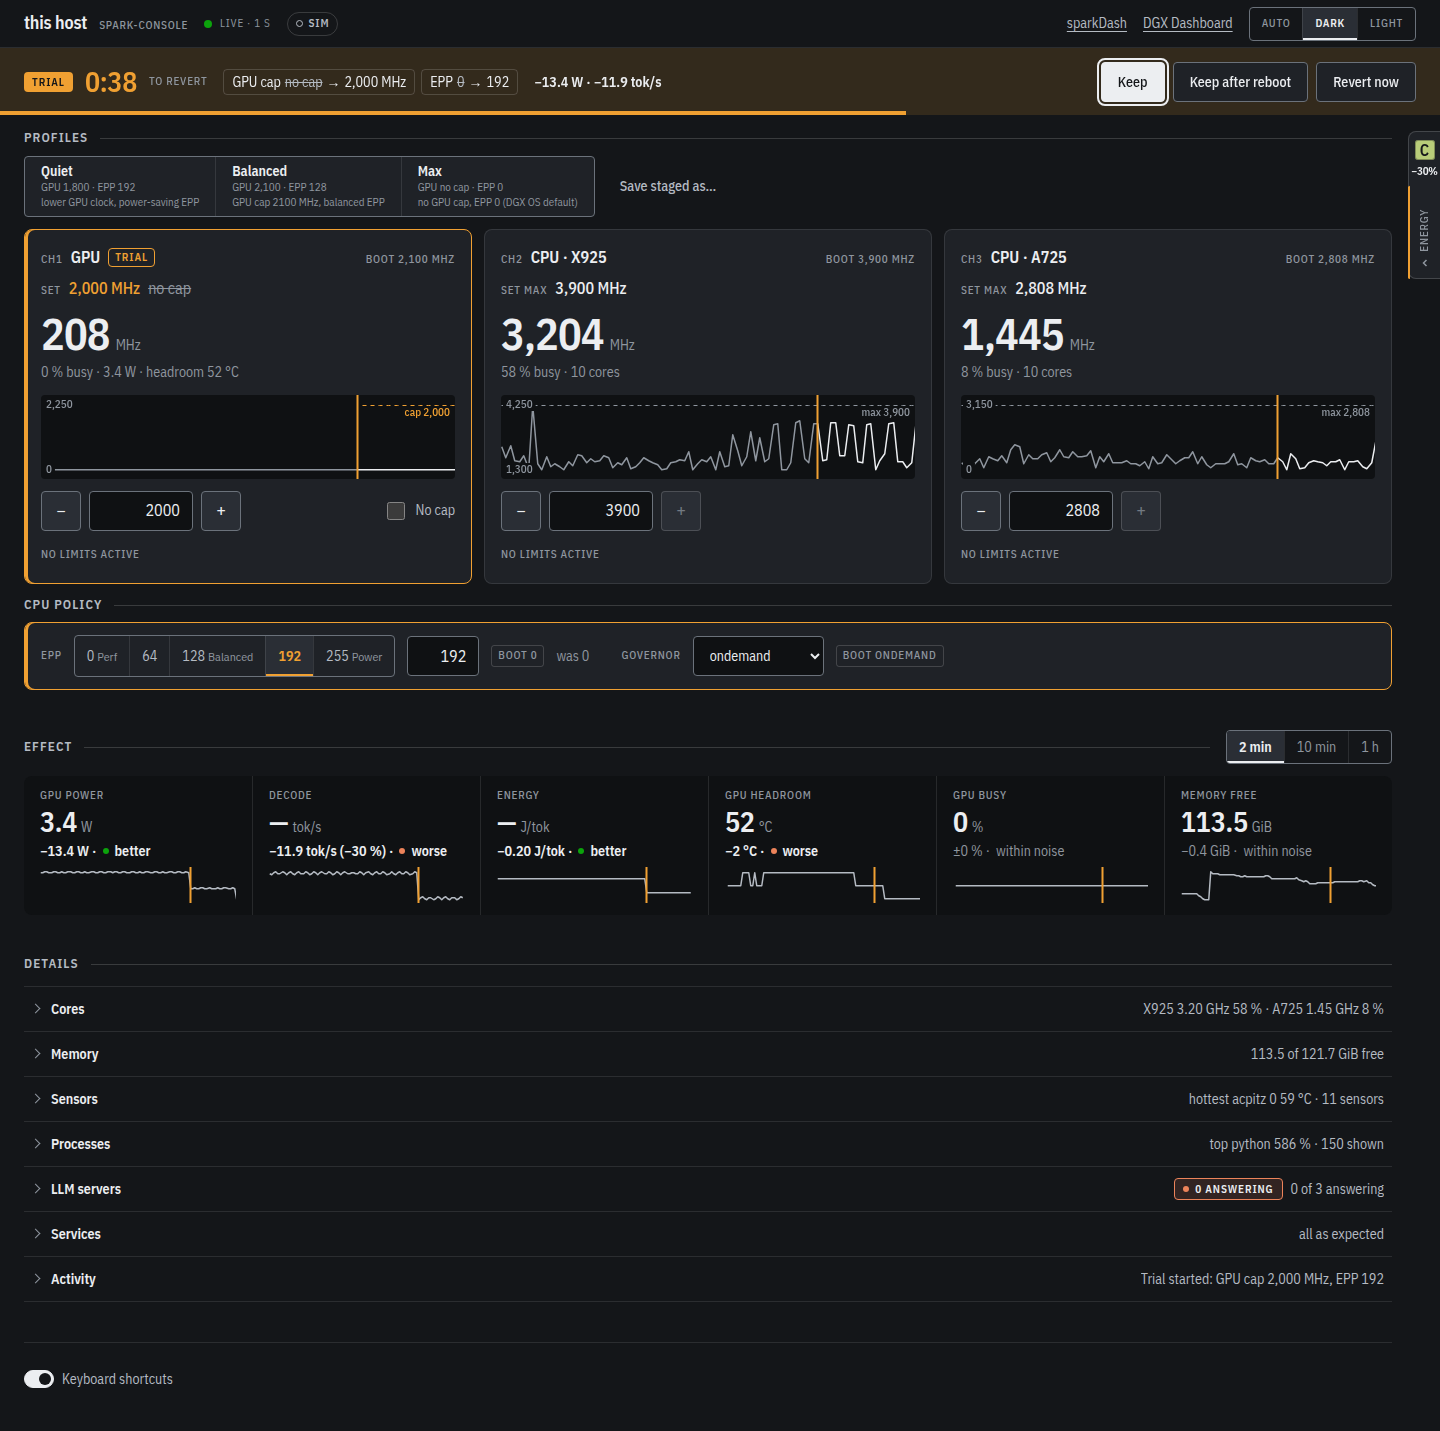
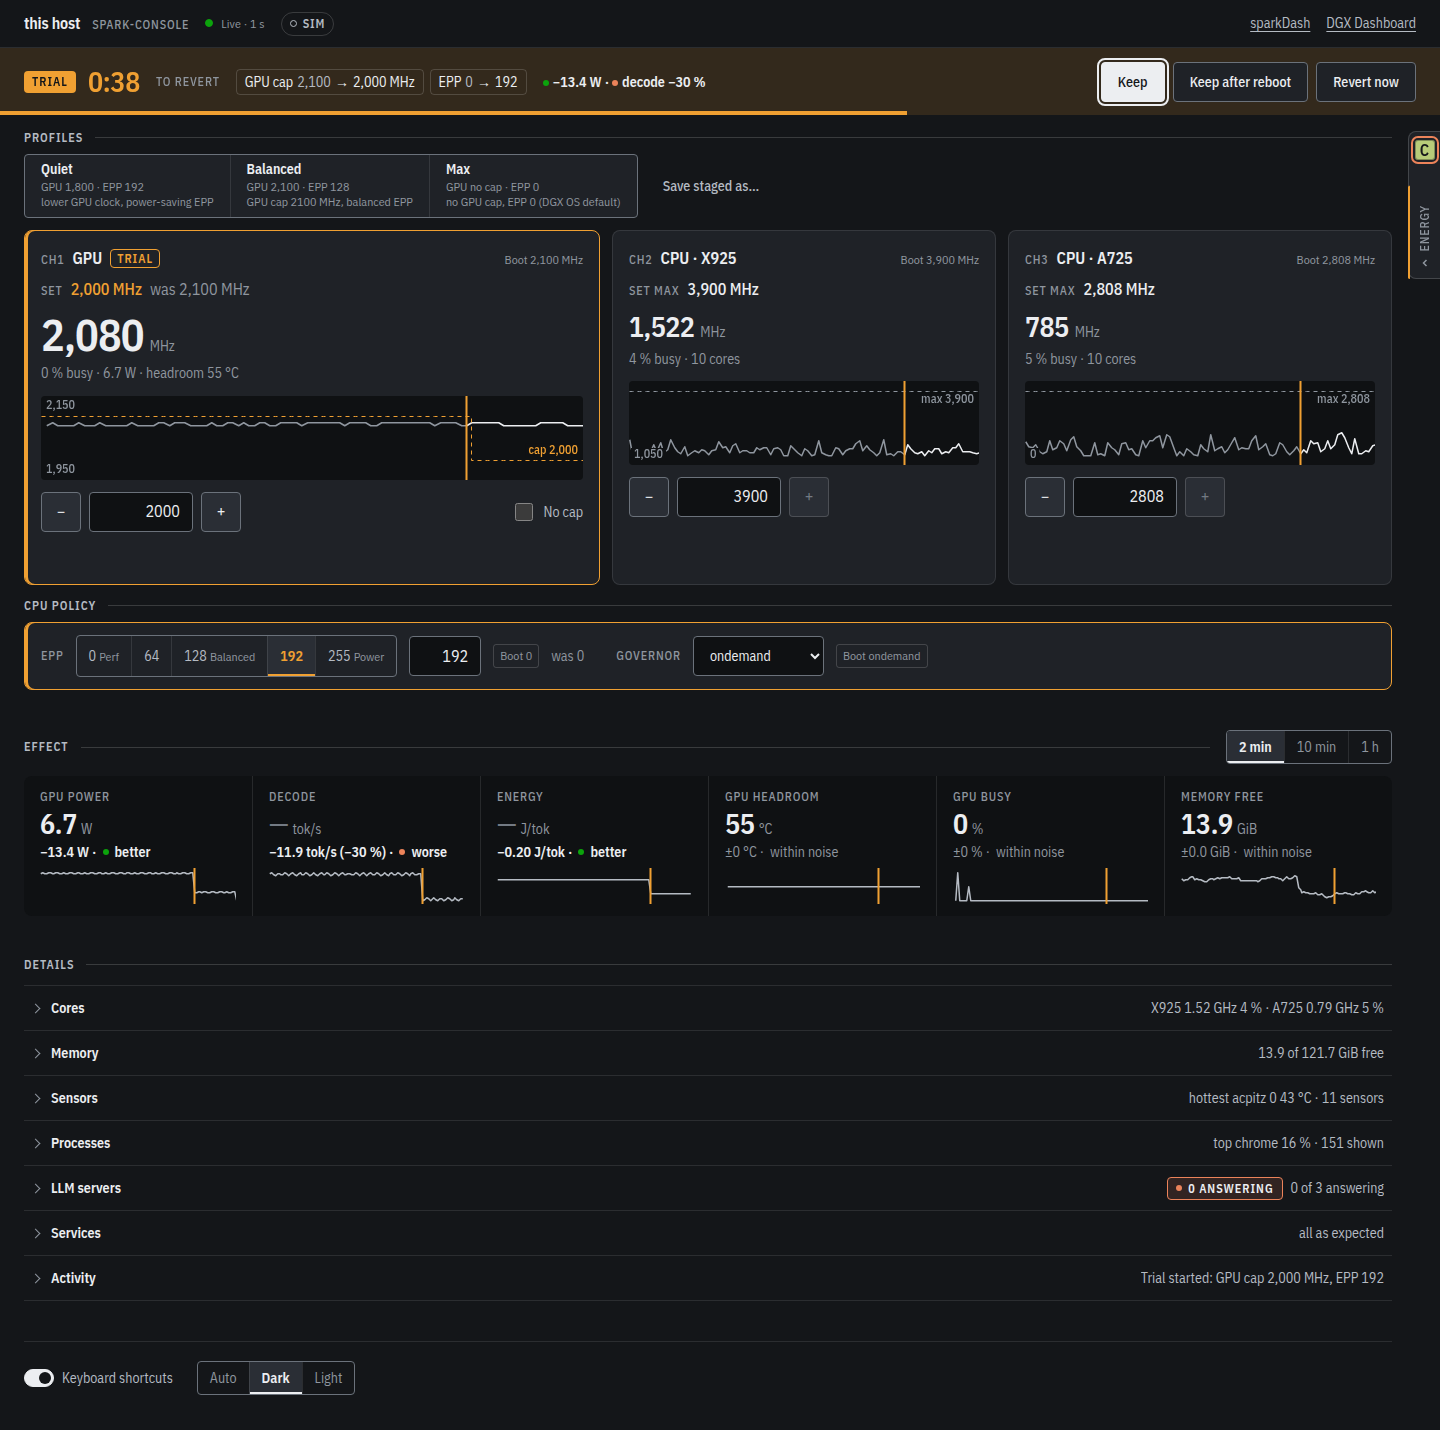
README: header text, read-only bar, theme at the bottom; new screenshot
- 'LIVE · 1 S' is now 'Live · 1 s'.
- The read-only check points at the bar under the header.
- The theme buttons are at the bottom of the page.
- .github/screenshot.png: the same dark trial view from ui_smoke, after
  the UI rework.

diff --git a/README.md b/README.md
@@ -54,9 +54,9 @@ Requirements:
 
 5. Open that address in a browser on a device in your tailnet.
 
-   The header shows a green dot and `LIVE · 1 S`.
+   The header shows a green dot and `Live · 1 s`.
 
-6. If the page shows a "Read-only" banner, do steps 2 to 4 again.
+6. If the bar under the header starts with "Read-only", do steps 2 to 4 again.
 
 **Note:** With `sh -s -- -y` in place of `sh`, the installer does not ask the question. `SPARK_CONSOLE_DIR` sets a different clone folder.
 
@@ -163,7 +163,7 @@ Do these steps in a clone of this repository, in the clone's folder.
 
 4. Open that URL in a browser on a device in your tailnet.
 
-   The header shows a green dot and `LIVE · 1 S`. If the page shows a "Read-only" banner, do step 1 again.
+   The header shows a green dot and `Live · 1 s`. If the bar under the header starts with "Read-only", do step 1 again.
 
    **Note:** The header links go to sparkDash on port 8443 and to the DGX Dashboard on port 443 of the same tailnet name. They work only if you publish those two dashboards there with `tailscale serve`.
 
@@ -227,7 +227,7 @@ To change the scale, click **Edit scale** in the drawer. The scale is kept in th
 
 ### Themes and shortcuts
 
-To change the theme, click **Auto**, **Dark** or **Light** in the header. **Auto** follows the operating system.
+To change the theme, click **Auto**, **Dark** or **Light** at the bottom of the page. **Auto** follows the operating system.
 
 | Key | Action |
 |---|---|
